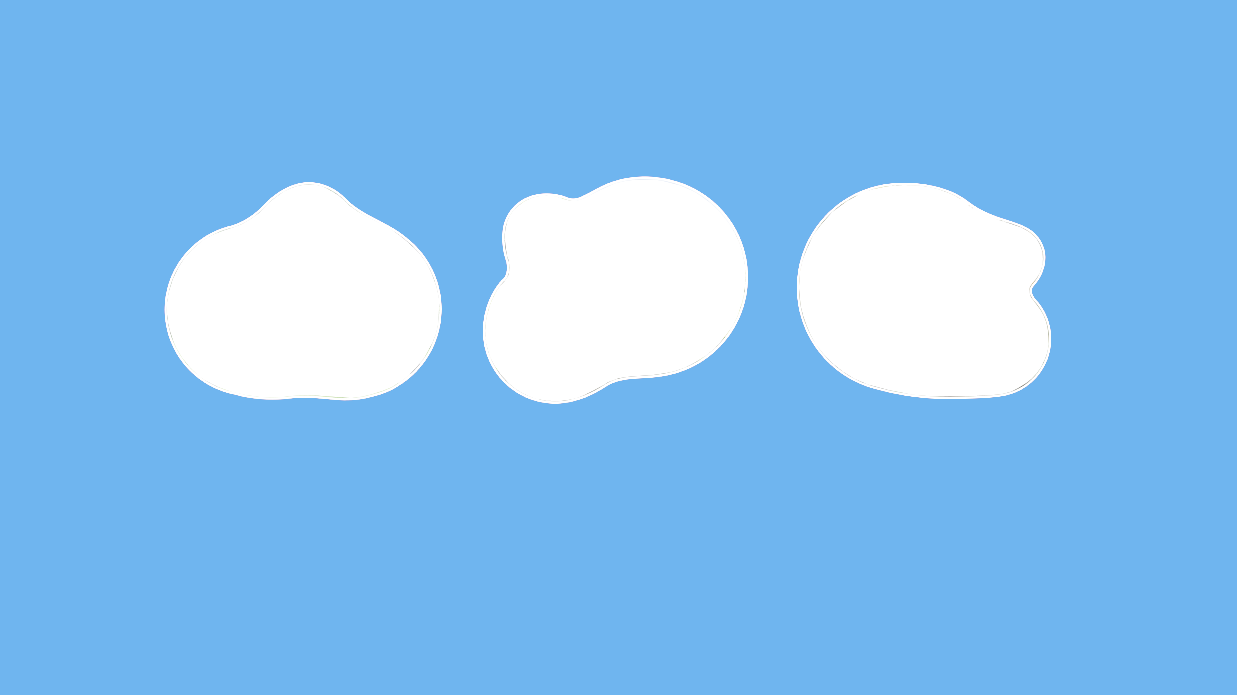
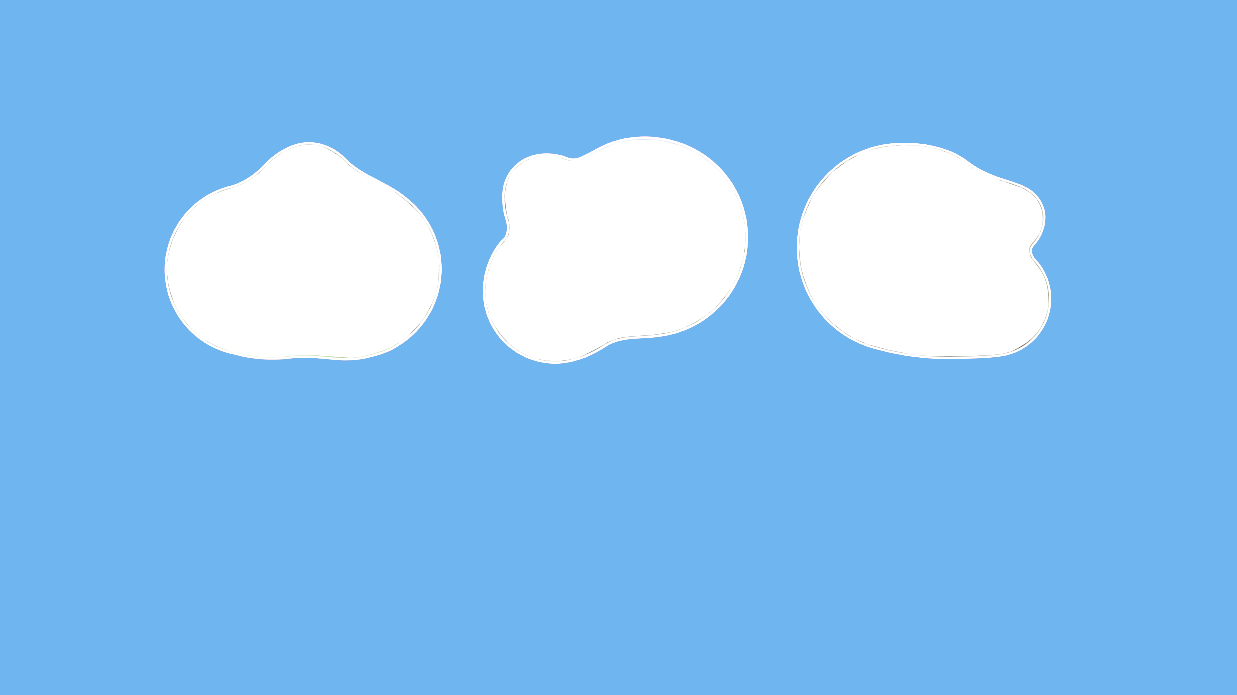
rectifications page resultat

Changed region(s): [[0.1229, 0.1813, 0.6144, 0.6043], [0.6451, 0.1813, 0.8601, 0.5741]]

diff --git a/parents-a/public/css/page_resultats.css b/parents-a/public/css/page_resultats.css
@@ -61,16 +61,12 @@ section[data-slidr="page-resultats"] {
     position: absolute;
     width: 23%;
     right: 14%;
-    bottom: 42%;
-
+    bottom: 46%;
 }
 
 #parc1-titre{
-    position: absolute;
-    font-size: medium;
+    position: relative;
     color: white;
-    right: 19%;
-    top: 20%;
     z-index: 14;
 }
 
@@ -80,28 +76,25 @@ section[data-slidr="page-resultats"] {
     bottom: 34%;
     right: 23%;
 }
-/* #chart {
-    position: absolute;
-    bottom: 5%;
-    width: 20%;
-    height:15%;
-    right: 10%;
-    z-index: 14;
-} */
+/*!* #chart {*/
+/*    position: absolute;*/
+/*    bottom: 5%;*/
+/*    width: 20%;*/
+/*    height:15%;*/
+/*    right: 10%;*/
+/*    z-index: 14;*/
+/*} *!*/
 #parc2-pr,#img2{
     position: absolute;
     width: 23%;
-    bottom: 42%;
+    bottom: 47%;
     right: 39%;
 }
 
 #parc2-titre{
-    position: absolute;
-    font-size: medium;
+    position: relative;
     color: white;
     z-index: 14;
-    top: 20%;
-    right: 43%;
 }
 
 #random2 {
@@ -111,28 +104,25 @@ section[data-slidr="page-resultats"] {
     right: 49%;
 }
 
-/* #chart1 {
-    position: absolute;
-    bottom: 5%;
-    width: 20%;
-    height:25%;
-    right: 30%;
-    z-index: 14;
-} */
+/*!* #chart1 {*/
+/*    position: absolute;*/
+/*    bottom: 5%;*/
+/*    width: 20%;*/
+/*    height:25%;*/
+/*    right: 30%;*/
+/*    z-index: 14;*/
+/*} *!*/
 #parc3-pr, #img3 {
-    
+
     position: absolute;
     width: 23%;
-    bottom: 42%;
+    bottom: 47%;
     right: 64%;
 }
 
 #parc3-titre{
-    position: absolute;
-    font-size: medium;
+    position: relative;
     color: white;
-    right: 69%;
-    top: 20%;
     z-index: 14;
 }
 
@@ -227,6 +217,17 @@ section[data-slidr="page-resultats"] {
 
 #table-img{
     width: 20px;
+}
+
+/* Conteneur */
+#conteneur{
+    display: flex;
+    justify-content: space-between;
+    width: 100%;
+    padding-left: 15%;
+    padding-top: 31%;
+    padding-right: 15%;
+    align-items: center;
 }
 
 

diff --git a/parents-a/public/index.html b/parents-a/public/index.html
@@ -395,16 +395,16 @@
                 <!-- Test Image de fond -->
                 <div id="conteneur">
                     <div class="element 1">
-                        <h3 id="parc3-titre"></h3>
                         <div id="parc3-pr" class="photo"></div>
+                        <h3 id="parc3-titre"></h3>
                     </div>
                     <div class="element 2">
-                        <h3 id="parc2-titre"></h3>
                         <div id="parc2-pr" class="photo"></div>
+                        <h3 id="parc2-titre"></h3>
                     </div>
                     <div class="element 3">
-                        <h3 id="parc1-titre"></h3>
                         <div id="parc1-pr" class="photo"></div>
+                        <h3 id="parc1-titre"></h3>
                     </div>
                 </div>
 
